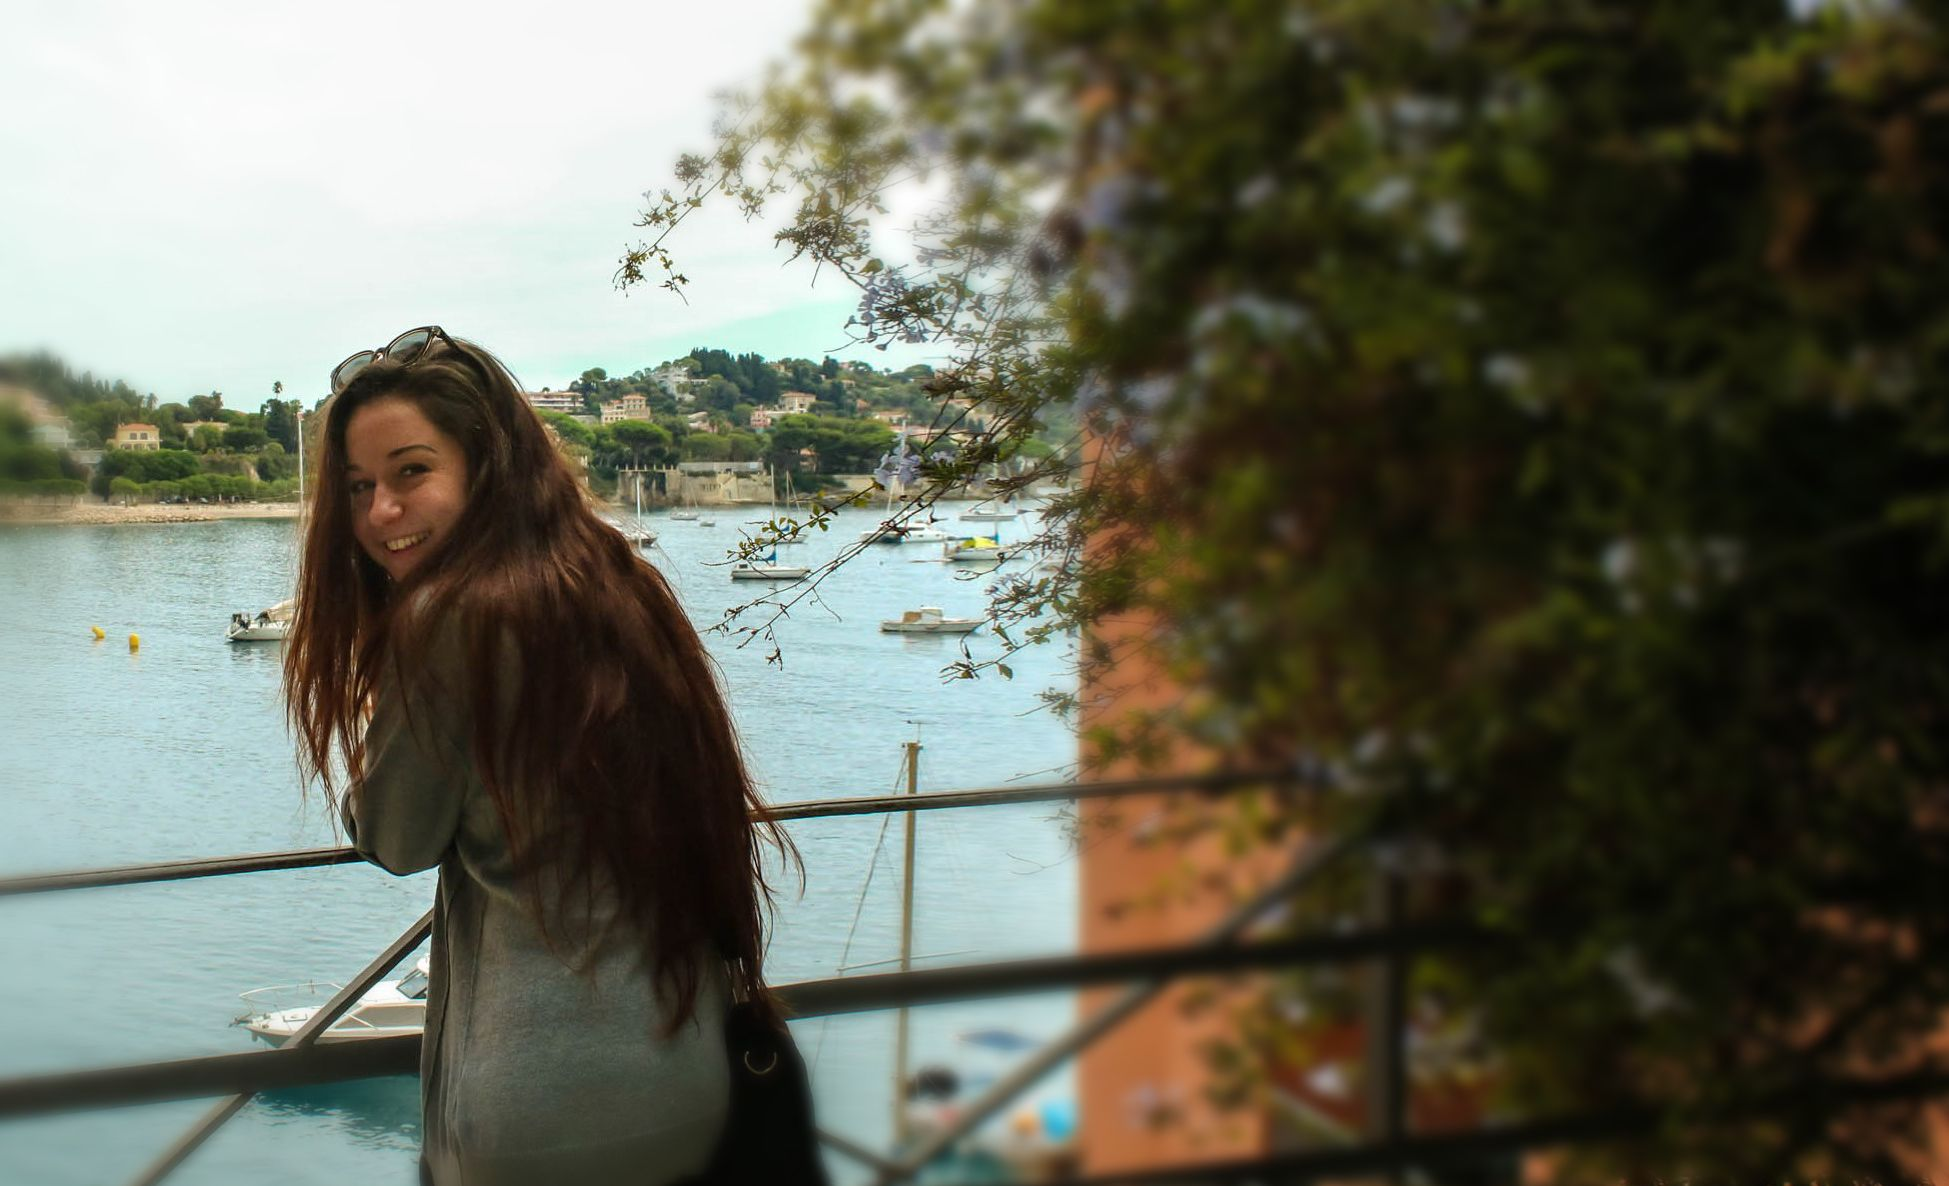
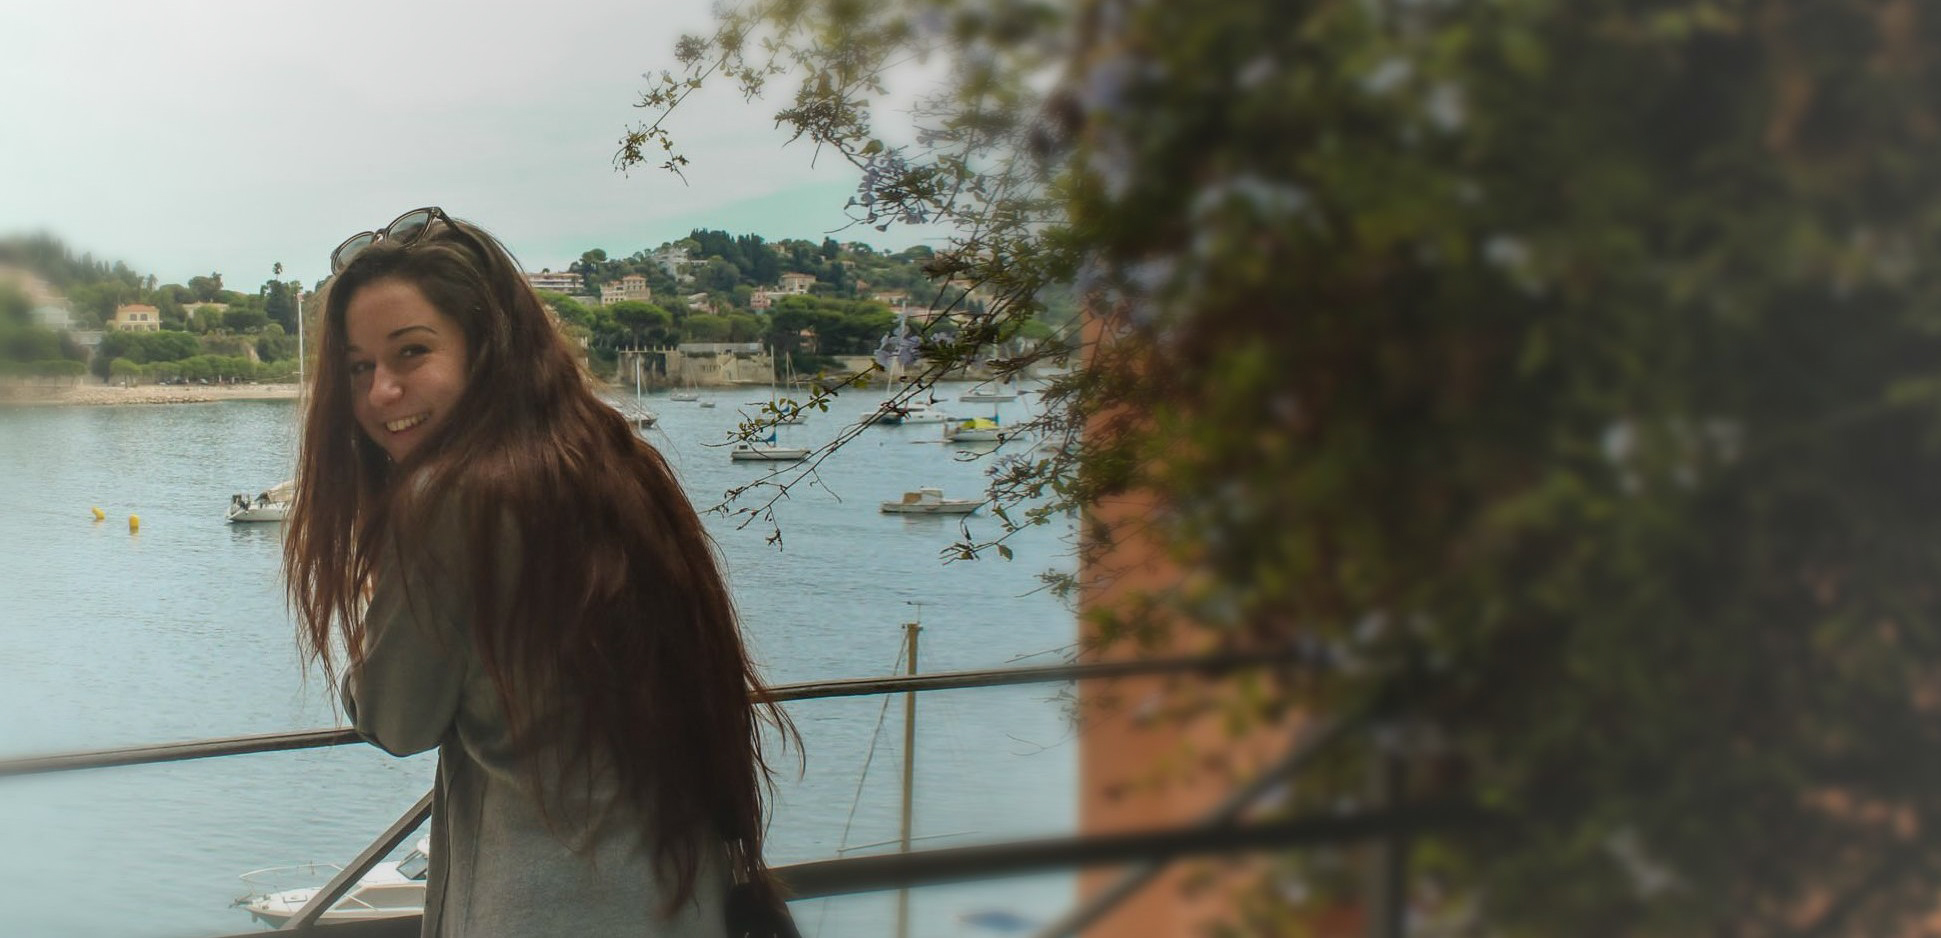
updated

diff --git a/index.html b/index.html
@@ -2,6 +2,15 @@
 <html>
 
 <head>
+    <!-- Global site tag (gtag.js) - Google Analytics -->
+    <script async src="https://www.googletagmanager.com/gtag/js?id=UA-178739198-1"></script>
+    <script>
+        window.dataLayer = window.dataLayer || [];
+        function gtag(){dataLayer.push(arguments);}
+        gtag('js', new Date());
+
+        gtag('config', 'UA-178739198-1');
+    </script>
     <meta charset="utf-8">
     <meta name="viewport" content="width=device-width, initial-scale=1.0, shrink-to-fit=no">
     <title>Nikita Batlis | Web Developer & UX/UI Designer</title>
@@ -18,6 +27,8 @@
 </head>
 
 <body id="page-top">
+
+    <!--NAV MENU SIDE DRAWER -->
     <nav class="navbar navbar-light navbar-expand bg-dark" id="sidebar-wrapper">
         <div class="container"><button data-toggle="collapse" class="navbar-toggler d-none" data-target="#"></button>
             <div class="collapse navbar-collapse">
@@ -27,14 +38,19 @@
                     <li class="nav-item sidebar-nav-item" role="presentation"><a class="nav-link js-scroll-trigger" href="#skills">Skills</a></li>
                     <li class="nav-item sidebar-nav-item" role="presentation"><a class="nav-link js-scroll-trigger" href="#portfolio">Portfolio</a></li>
                     <li class="nav-item sidebar-nav-item" role="presentation"><a class="nav-link js-scroll-trigger" href="#resume">Resume</a></li>
-                    <!-- <li class="nav-item sidebar-nav-item" role="presentation"><a class="nav-link js-scroll-trigger" href="#contact">Contact</a></li> -->
+                    <li class="nav-item sidebar-nav-item" role="presentation"><a class="nav-link js-scroll-trigger" href="#contact">Contact</a></li>
                 </ul>
             </div>
         </div>
     </nav>
+
+    <!--MENU BUTTON -->
     <div class="container-fluid"><a class="menu-toggle rounded" href="#"><i class="fa fa-bars"></i></a></div>
+
     <div id="wrapper">
-        <header class="text-center d-flex justify-content-xl-center masthead" style="background: radial-gradient(rgba(24,24,24,0.35) 28%, rgba(200,191,177,0.4) 80%) fixed, url(assets/img/main_image.jpg) left / cover no-repeat fixed;height: 850px;opacity: 1;filter: blur(0px);margin-top: 0;margin-right: 0;margin-bottom: 0;">
+
+        <!--HEADER BANNER -->
+        <header class="text-center d-flex justify-content-xl-center masthead" style="background: url(assets/img/main_image.jpg) left / cover no-repeat fixed;height: 850px;opacity: 1;margin-top: 0;margin-right: 0;margin-bottom: 0;">
             <div class="container my-auto text-center" style="text-align: right;">
                 <div class="row justify-content-center">
                     <div class="col-lg-7 offset-lg-3">
@@ -44,6 +60,8 @@
                 </div>
             </div>
         </header>
+
+        <!--ABOUT -->
         <section id="about" class="content-section bg-light">
             <div class="container text-center">
                 <div class="row">
@@ -54,6 +72,8 @@
                 </div>
             </div>
         </section>
+
+        <!--SKILLS -->
         <section id="skills" class="content-section bg-primary text-white text-center">
             <div class="container">
                 <div class="content-section-heading">
@@ -64,11 +84,13 @@
                     <div class="col-md-6 col-lg-3 mb-5 mb-lg-0"><span class="mx-auto service-icon rounded-circle mb-3"><i class="icon ion-code"></i></span>
                         <h4><strong style="font-family: Actor, sans-serif;">Web Development</strong></h4>
                         <ul class="list-unstyled">
-                            <li>HTML</li>
-                            <li>CSS</li>
-                            <li>Bootstrap</li>
+                            <li>HTML/CSS/Bootstrap</li>
                             <li>JavaScript/JQuery</li>
-                            <li>MERN Stack</li>
+                            <li>React</li>
+                            <li>Express</li>
+                            <li>NodeJS</li>
+                            <li>MongoDB</li>
+
                         </ul>
                     </div>
                     <div class="col-md-6 col-lg-3 mb-5 mb-lg-0" style="height: 300px;"><span class="mx-auto service-icon rounded-circle mb-3"><i class="icon-organization"></i></span>
@@ -78,7 +100,7 @@
                             <li>Analysis</li>
                             <li>Ideation</li>
                             <li>Prototyping</li>
-                            <li>Wireframing</li>
+                            <li>Wire-framing</li>
                         </ul>
                     </div>
                     <div class="col-md-6 col-lg-3 mb-5 mb-lg-0"><span class="mx-auto service-icon rounded-circle mb-3"><i class="icon ion-android-create"></i></span>
@@ -103,81 +125,123 @@
                     </div>
                 </div>
             </div>
-        </section><section id="portfolio" class="content-section bg-light">
-    <div class="container">
-        <div class="content-section-heading text-center">
-            <h3 class="text-secondary mb-0">Portfolio</h3>
-            <h2 class="mb-5" style="font-family: Actor, sans-serif;">Recent Projects</h2>
+        </section>
+
+        <!--PORTFOLIO -->
+        <section id="portfolio" class="content-section bg-light">
+            <!--WEB DEV PROJECTS -->
+            <div class="container">
+                <div class="content-section-heading text-center">
+                    <h3 class="text-secondary mb-0">Portfolio</h3>
+                    <h2 class="mb-5" style="font-family: Actor, sans-serif;">Web Development</h2>
+                </div>
+                <div class="row no-gutters">
+
+                    <div class="col-lg-6">
+                        <a class="portfolio-item" target="_blank" href="https://mern-task-manager-nikitabatlis.herokuapp.com/">
+                            <div class="caption">
+                                <div class="caption-content">
+                                    <h2>MERN Task Manager Web App/</h2>
+                                    <p class="mb-0">A Task Manager app that was created using Create-React-App. Express server endpoints performing CRUD operations to a MongDB. Passport authentication.</p>
+                                </div>
+                            </div><img class="img-fluid" src="assets/img/task_manager_app.jpg" /></a>
+                    </div>
+
+                    <div class="col-lg-6">
+                        <a class="portfolio-item" target="_blank" href="https://nikitabatlis-itunes-search.herokuapp.com/">
+                            <div class="caption">
+                                <div class="caption-content">
+                                    <h2>iTunes API Search with React & Express</h2>
+                                    <p class="mb-0">A React web app that makes HTTP requests to the iTunes store API and adds favourites to a backend Express API.</p>
+                                </div>
+                            </div><img class="img-fluid" src="assets/img/itunes_api_react_express.jpg" /></a>
+                    </div>
+
+                    <div class="col-lg-6">
+                        <a class="portfolio-item" target="_blank" href="https://headroom.co.za/">
+                            <div class="caption">
+                                <div class="caption-content">
+                                    <h2>Headroom Website</h2>
+                                    <p class="mb-0">A Wordpress and graphic design job to create an online therapy portal for South Africa.</p>
+                                </div>
+                            </div><img class="img-fluid d-xl-flex" src="assets/img/headroom.jpg" /></a>
+                    </div>
+
+                    <div class="col-lg-6">
+                        <a class="portfolio-item" target="_blank" href="https://nikitabatlis.github.io/Wazoogles-Project/">
+                            <div class="caption">
+                                <div class="caption-content">
+                                    <h2>Wazoogles.com online store</h2>
+                                    <p class="mb-0">An HTML, CSS, Bootstrap, JS/JQuery student project to redesign the brand Wazoogles online store.</p>
+                                </div>
+                            </div><img class="img-fluid" src="assets/img/wazoogles_project.jpg" /></a>
+                    </div>
+
+                </div>
+            </div>
+        </section>
+
+        <!--UX DESIGN PROJECTS -->
+        <section class="uxSection content-section bg-light">
+
+            <div class="container">
+                <div class="content-section-heading text-center">
+                    <h2 class="mb-5" style="font-family: Actor, sans-serif;">UX Design</h2>
+                </div>
+                <div class="row no-gutters">
+                    <div class="col-lg-6">
+                        <a class="portfolio-item" target="_blank" href="https://xd.adobe.com/view/f4a4e95a-e23b-409d-7d04-08dd74bab01a-8295/">
+                            <div class="caption">
+                                <div class="caption-content">
+                                    <h2>Task Manager Prototype</h2>
+                                    <p class="mb-0">My initial prototype for the Task Manager app.</p>
+                                </div>
+                            </div><img class="img-fluid d-xl-flex" src="assets/img/task_manager_mockup.jpg" /></a>
+                    </div>
+
+                    <div class="col-lg-6">
+                        <a class="portfolio-item" target="_blank" href="https://xd.adobe.com/view/7873c7ed-2eb3-4cb6-5971-2ec95f3ca362-0e42/">
+                            <div class="caption">
+                                <div class="caption-content">
+                                    <h2>Airline booking Mobile app</h2>
+                                    <p class="mb-0">A UX design student project for an airline booking app on mobile.</p>
+                                </div>
+                            </div><img class="img-fluid d-xl-flex" src="assets/img/flyUX_project.jpg" /></a>
+                    </div>
+                </div>
+            </div>
+        </section>
+        
+        <!--RESUME DOWNLOAD BANNER-->
+        <section id="resume" class="callout" style="background: radial-gradient(rgba(24,24,24,0.35) 0%, rgba(200,191,177,0.4)), url(assets/img/banner2.jpeg) center center / cover no-repeat;">
+            <div class="container text-center">
+                <h2 class="text-white mx-auto mb-5">I'm ready for my next adventure!</h2><a class="btn btn-primary btn-lg border rounded btn-xl" role="button" target="_blank" href="assets/img/Nikita_Batlis_Resume_2020.pdf">Download Resume</a></div>
+        </section>
+
+        <!--CONTACT FORM : https://getform.io/forms -->
+        <div id="contact" class="contact-clean" style="background-color: rgb(29,128,159);">
+            <form action="https://getform.io/f/e4c5590d-fb1f-4e9a-8d40-e3f536771cac" method="POST">
+                <h2 class="text-center">Contact Me</h2>
+                <div class="form-group"><input type="text" class="form-control" name="name" placeholder="Name" /></div>
+                <div class="form-group"><input type="email" class="form-control is-invalid" name="email" placeholder="Email" /></div>
+                <div class="form-group"><textarea class="form-control" name="message" placeholder="Message" rows="14"></textarea></div>
+                <div class="form-group"><button class="btn btn-secondary text-center" type="submit" >Submit</button></div>
+            </form>
         </div>
-        <div class="row no-gutters">
-            <div class="col-lg-6">
-                <a class="portfolio-item" target="_blank" href="https://nikitabatlis.github.io/Wazoogles-Project/">
-                    <div class="caption">
-                        <div class="caption-content">
-                            <h2>Wazoogles.com online store</h2>
-                            <p class="mb-0">An HTML, CSS, Bootstrap, JS/JQuery student project to redesign the brand Wazoogles online store.</p>
-                        </div>
-                    </div><img class="img-fluid" src="assets/img/wazoogles_project.jpg" /></a>
-            </div>
 
-            <div class="col-lg-6">
-                <a class="portfolio-item" target="_blank" href="https://nikitabatlis-itunes-search.herokuapp.com/">
-                    <div class="caption">
-                        <div class="caption-content">
-                            <h2>iTunes API Search with React & Express</h2>
-                            <p class="mb-0">A React web app that makes HTTP requests to the iTunes store API and adds favourites to a backend Express API.</p>
-                        </div>
-                    </div><img class="img-fluid" src="assets/img/itunes_api_react_express.jpg" /></a>
-            </div>
-
-            <div class="col-lg-6">
-                <a class="portfolio-item" target="_blank" href="https://headroom.co.za/">
-                    <div class="caption">
-                        <div class="caption-content">
-                            <h2>Headroom Website</h2>
-                            <p class="mb-0">A Wordpress and graphic design job to create an online therapy portal for South Africa.</p>
-                        </div>
-                    </div><img class="img-fluid d-xl-flex" src="assets/img/headroom.jpg" /></a>
-            </div>
-
-            <div class="col-lg-6">
-                <a class="portfolio-item" target="_blank" href="https://xd.adobe.com/view/7873c7ed-2eb3-4cb6-5971-2ec95f3ca362-0e42/">
-                    <div class="caption">
-                        <div class="caption-content">
-                            <h2>Airline booking Mobile app</h2>
-                            <p class="mb-0">A UX design student project for an airline booking app on mobile.</p>
-                        </div>
-                    </div><img class="img-fluid d-xl-flex" src="assets/img/flyUX_project.jpg" /></a>
-            </div>
-            
-        </div>
-    </div>
-</section>
-
-    <section id="resume" class="callout" style="background: radial-gradient(rgba(24,24,24,0.35) 0%, rgba(200,191,177,0.4)), url(assets/img/banner2.jpeg) center center / cover no-repeat;">
-        <div class="container text-center">
-            <h2 class="text-white mx-auto mb-5">I'm ready for my next adventure!</h2><a class="btn btn-primary btn-lg border rounded btn-xl" role="button" target="_blank" href="assets/img/Nikita_Batlis_Resume_2020.pdf">Download Resume</a></div>
-    </section>
-
-    <!-- <div id="contact" class="contact-clean" style="background-color: rgb(29,128,159);">
-        <form method="post">
-            <h2 class="text-center">Contact Me</h2>
-            <div class="form-group"><input type="text" class="form-control" name="name" placeholder="Name" /></div>
-            <div class="form-group"><input type="email" class="form-control is-invalid" name="email" placeholder="Email" /><small class="form-text text-danger">Please enter a correct email address.</small></div>
-            <div class="form-group"><textarea class="form-control" name="message" placeholder="Message" rows="14"></textarea></div>
-            <div class="form-group"><button class="btn btn-secondary text-center" type="submit" style="background-color: rgb(218,18,5);">STILL NEEDS SCRIPTING </button></div>
-        </form>
-    </div> -->
-        <footer class="footer text-center">
+        <!--FOOTER -->
+        <footer class="footer text-center" >
             <div class="container">
                 <ul class="list-inline mb-5">
                     <li class="list-inline-item">&nbsp;<a class="text-white social-link rounded-circle" target="_blank" href="https://www.linkedin.com/in/nikitabatlis/" style="background-color: rgb(238,191,32);"><i class="icon-social-linkedin"></i></a></li>
                     <li class="list-inline-item">&nbsp;<a class="text-white social-link rounded-circle" target="_blank" href="https://github.com/NikitaBatlis" style="background-color: rgb(238,191,32);"><i class="icon-social-github"></i></a></li>
                 </ul>
-                <p class="text-muted mb-0 small">Built by Nikita Batlis 2020</p>
+                <p class="text-muted mb-0 small">Nikita Batlis 2020</p>
             </div><a class="js-scroll-trigger scroll-to-top rounded" href="#page-top"><i class="fa fa-angle-up"></i></a>
         </footer>
+
     </div>
+
     <script src="assets/js/jquery.min.js"></script>
     <script src="assets/bootstrap/js/bootstrap.min.js"></script>
     <script src="https://cdnjs.cloudflare.com/ajax/libs/jquery-easing/1.4.1/jquery.easing.min.js"></script>

diff --git a/assets/css/override.css b/assets/css/override.css
@@ -15,8 +15,11 @@
   z-index: 999;
 }
 
-.img-fluid.logo-image {
-  /*left: 1rem;*/
-  /*top: 1rem;*/
+.uxSection {
+  padding-top: 0;
+}
+
+.form-control.is-invalid, .was-validated .form-control:invalid {
+  border-color: #ced4da!important;
 }
 
